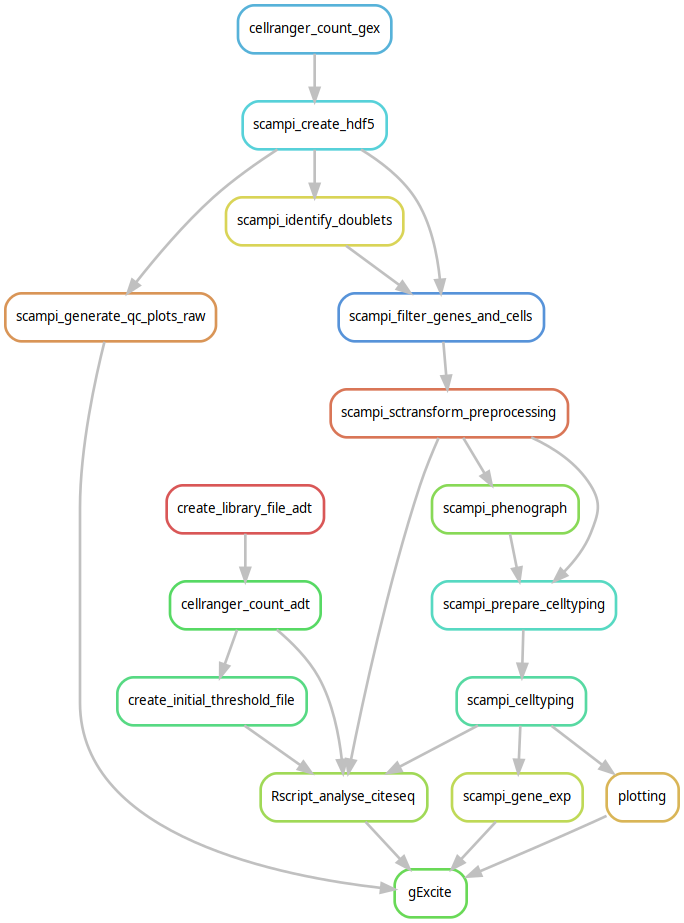
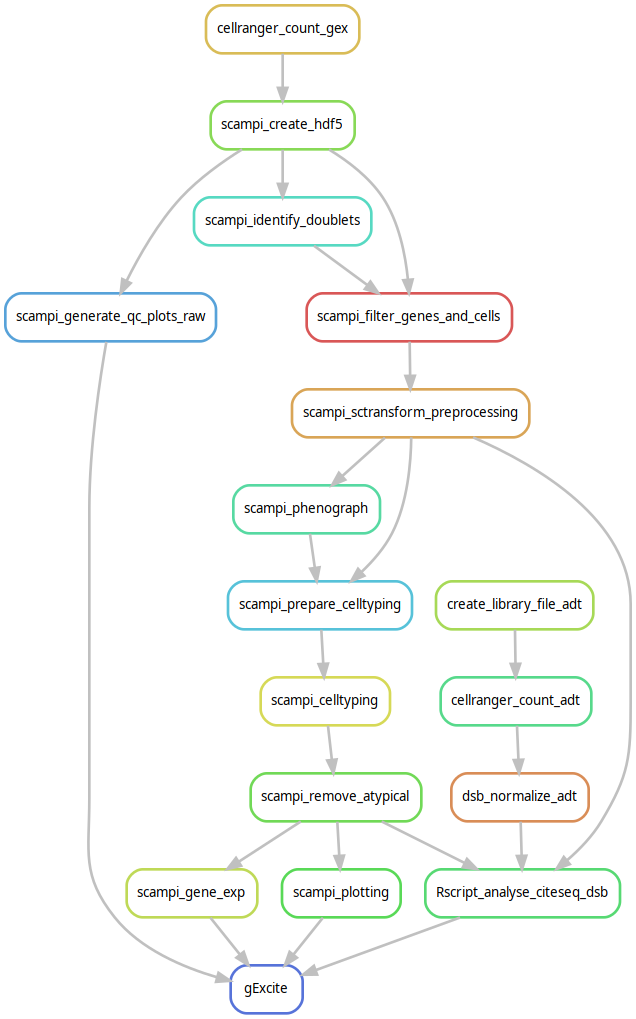
[DOC] Include `dsb` correction as default step for experiments
without hashing deconvolution.

diff --git a/README.md b/README.md
@@ -53,6 +53,9 @@ In case you would like to start from the raw sequencing data using cellranger pr
 - [Cellranger](https://support.10xgenomics.com/single-cell-gene-expression/software/pipelines/latest/what-is-cell-ranger): Follow the instructions on the 10xGenomics installation support page to install cellranger and to include the cellranger binary to your path.
 Webpage: [https://support.10xgenomics.com/single-cell-gene-expression/software/pipelines/latest/installation](https://support.10xgenomics.com/single-cell-gene-expression/software/pipelines/latest/installation)
 
+The `dsb` CRAN package is not available on Conda. Therefore, a singularity image `dsb_r-base_4.2.3.sif` containg `dsb` and all other R packages necessary for this step is available for download at XX. Please download the image and then provide the path in the config section dsb_normalize_adt -> singularity.
+
+
 ## Before running the pipeline
 
 Before the pipeline can be run make sure that

diff --git a/CHANGELOG.md b/CHANGELOG.md
@@ -3,7 +3,7 @@
 ## [1.0.5] - 2024-01-XX
 
 ### Added
-- `dsb` normalization of ADT counts (experiments without hashing)
+- include as default `dsb` ambient protein background correction for ADT counts, for experiments without hashing deconvolution
 
 ## [1.0.4] - 2023-09-19
 
